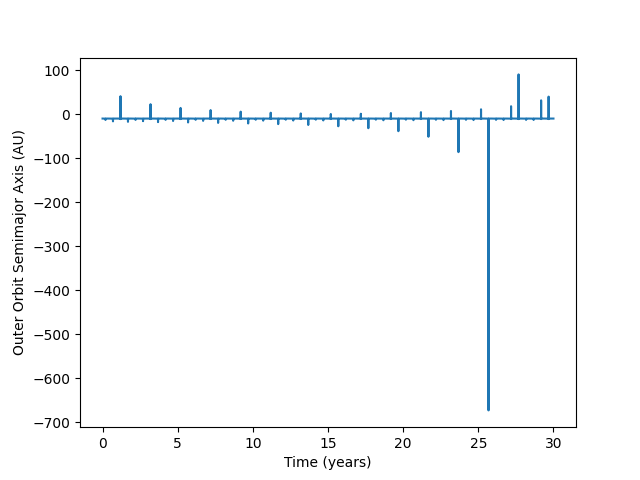
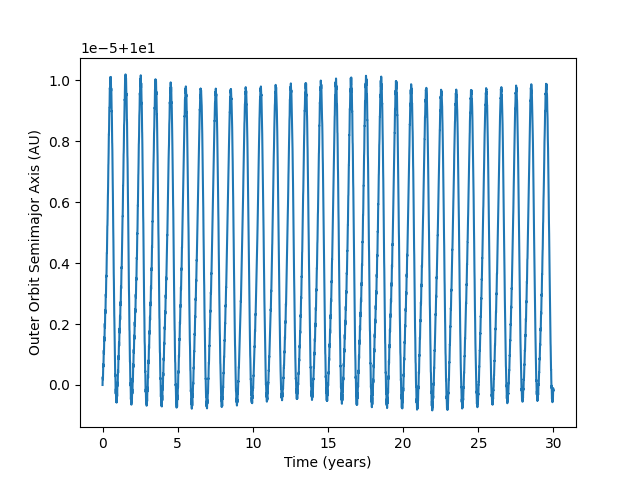
Ran some runs and did some data analysis

diff --git a/julia_code/solver/src/PMruns/analysis.py b/julia_code/solver/src/PMruns/analysis.py
@@ -12,6 +12,7 @@ import argparse
 import sys
 import pandas
 import matplotlib.pyplot as plt
+import matplotlib.ticker as mtick
 
 #--------------------------------------------------
 #   Read in the file to get data
@@ -38,7 +39,7 @@ mSun = 1.0  # set mass to be in solar mass units
 C_CGS = 2.998e10
 G_CGS = 6.674e-8
 mSun_CGS = 1.989e33
-AU_CGS = 1.496e14
+AU_CGS = 1.496e13
     #all runs must use G = 1.0
 G = 1.0
 M = mSun_CGS        #units of mass
@@ -153,9 +154,8 @@ y3dot = data['py3']/m3
 z3dot = data['pz3']/m3
 
 r_in_vec = [data['qx1']-data['qx2'], data['qy1']-data['qy2'], data['qz1']-data['qz2']]
-COM = [data['qx1']*m1+data['qx2']*m2/M_in, data['qy1']*m1+data['qy2']*m2/M_in, data['qz1']*m1+data['qz2']*m2/M_in]
-data['qx3']-COM[1]
-r_out_vec = [data['qx3']-COM[0], data['qy3']-COM[2], data['qz3']-COM[2]]
+COM = [(data['qx1']*m1+data['qx2']*m2)/M_in, (data['qy1']*m1+data['qy2']*m2)/M_in, (data['qz1']*m1+data['qz2']*m2)/M_in]
+r_out_vec = [data['qx3']-COM[0], data['qy3']-COM[1], data['qz3']-COM[2]]
 
 r_in = (r_in_vec[0]**2 + r_in_vec[1]**2 + r_in_vec[2]**2)**0.5
 r_out = (r_out_vec[0]**2 + r_out_vec[1]**2 + r_out_vec[2]**2)**0.5
@@ -184,8 +184,16 @@ rv_out = (rv_out_vec[0]**2 + rv_out_vec[1]**2 + rv_out_vec[2]**2)**0.5
 i_in = arccos(rv_in_vec[2]/rv_in)
 i_out = arccos(rv_out_vec[2]/rv_out)
 
-e_in = sqrt(1 - (rv_in**2)/(a_in*G*M_in))
-e_out = sqrt(1 - (rv_out**2)/(a_out*G*M_out))
+e_arg_in = (rv_in**2)/(a_in*G*M_in)
+e_arg_out = (rv_out**2)/(a_out*G*M_out)
+for i in range(length):
+    if e_arg_in[i] > 1.0:
+        e_arg_in[i] = 1.0
+    if e_arg_out[i] > 1.0:
+        e_arg_out[i] = 1.0
+
+e_in = sqrt(1 - e_arg_in)
+e_out = sqrt(1 - e_arg_out)
 
 nrv_in_vec = [-rv_in_vec[1], rv_in_vec[0], 0]
 nrv_out_vec = [-rv_out_vec[1], rv_out_vec[0], 0]
@@ -273,10 +281,12 @@ plt.figure()
 plt.plot(t, a_in_AU)
 plt.xlabel('Time (years)')
 plt.ylabel('Inner Orbit Semimajor Axis (AU)')
+plt.gca().yaxis.set_major_formatter(mtick.FormatStrFormatter('%.6f'))
 plt.savefig('a_in_' + bodies + '_' + conditions + '.png')
 
 plt.figure()
 plt.plot(t, a_out_AU)
 plt.xlabel('Time (years)')
 plt.ylabel('Outer Orbit Semimajor Axis (AU)')
+plt.gca().yaxis.set_major_formatter(mtick.FormatStrFormatter('%.6f'))
 plt.savefig('a_out_' + bodies + '_' + conditions + '.png')
